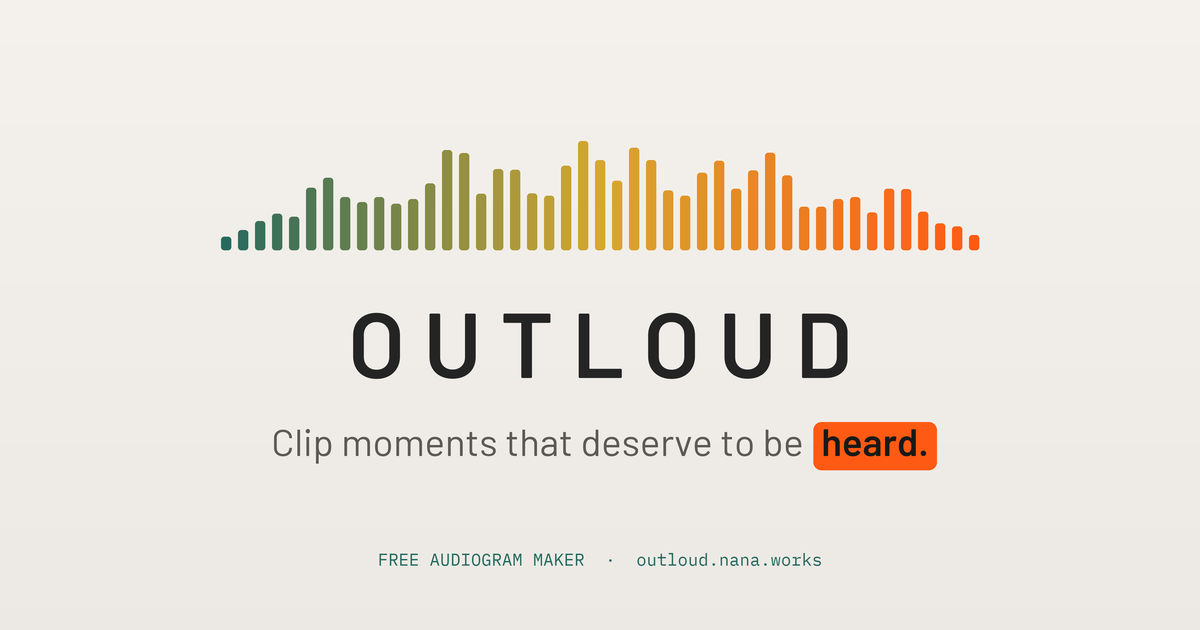
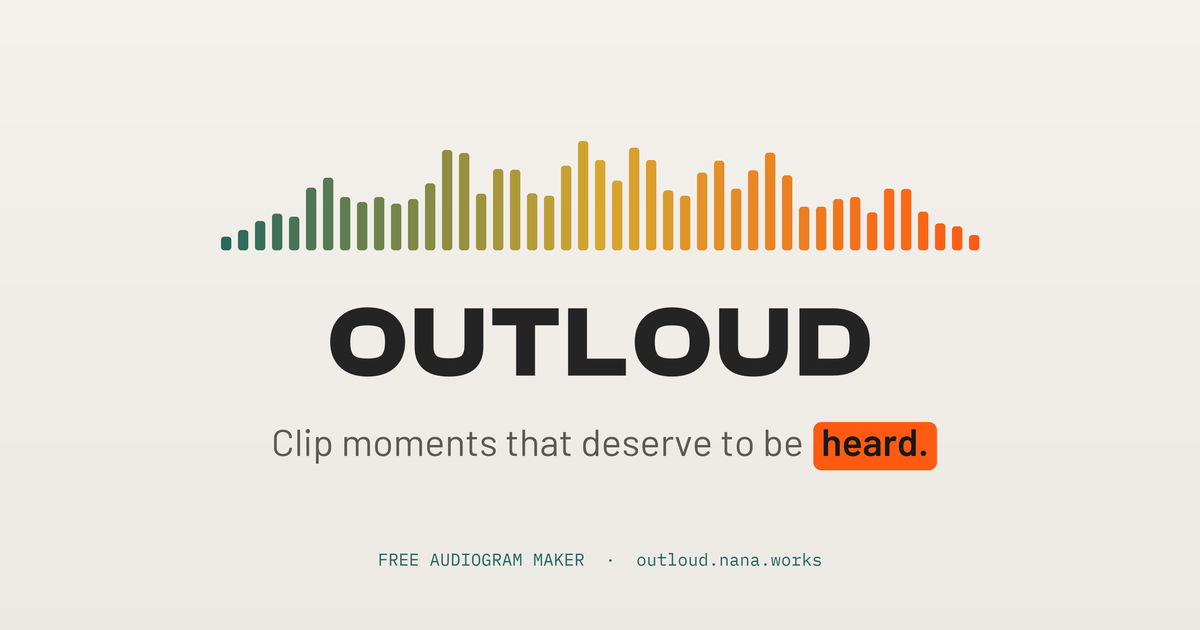
Share image in the Clash Display wordmark; older share images redirect to it
The v6-v9 share images are removed and permanently redirect to v10, so
anything still asking for an old image gets the current one. The welcome
splash uses the same image.

Changed region(s): [[0.2775, 0.4825, 0.74, 0.6032]]

diff --git a/index.html b/index.html
@@ -1267,8 +1267,8 @@
         </text>
       </svg>
     </h2>
-    <img class="splash-og" src="outloud-og-v9.png" width="1200" height="630" loading="lazy" decoding="async"
-      alt="OutLoud: clip moments that deserve to be heard. A captioned audiogram beside the Input, Clip, Design and Share steps." />
+    <img class="splash-og" src="outloud-og-v10.png" width="1200" height="630" loading="lazy" decoding="async"
+      alt="OutLoud: clip moments that deserve to be heard. A waveform above the OutLoud name." />
     <div class="info-eyebrow">FREE AUDIOGRAM MAKER</div>
     <h3 class="beta-headline">Good moments deserve to be heard.</h3>
     <p class="splash-tag">Find the moment. Shape your clip. Share it with your community.</p>
